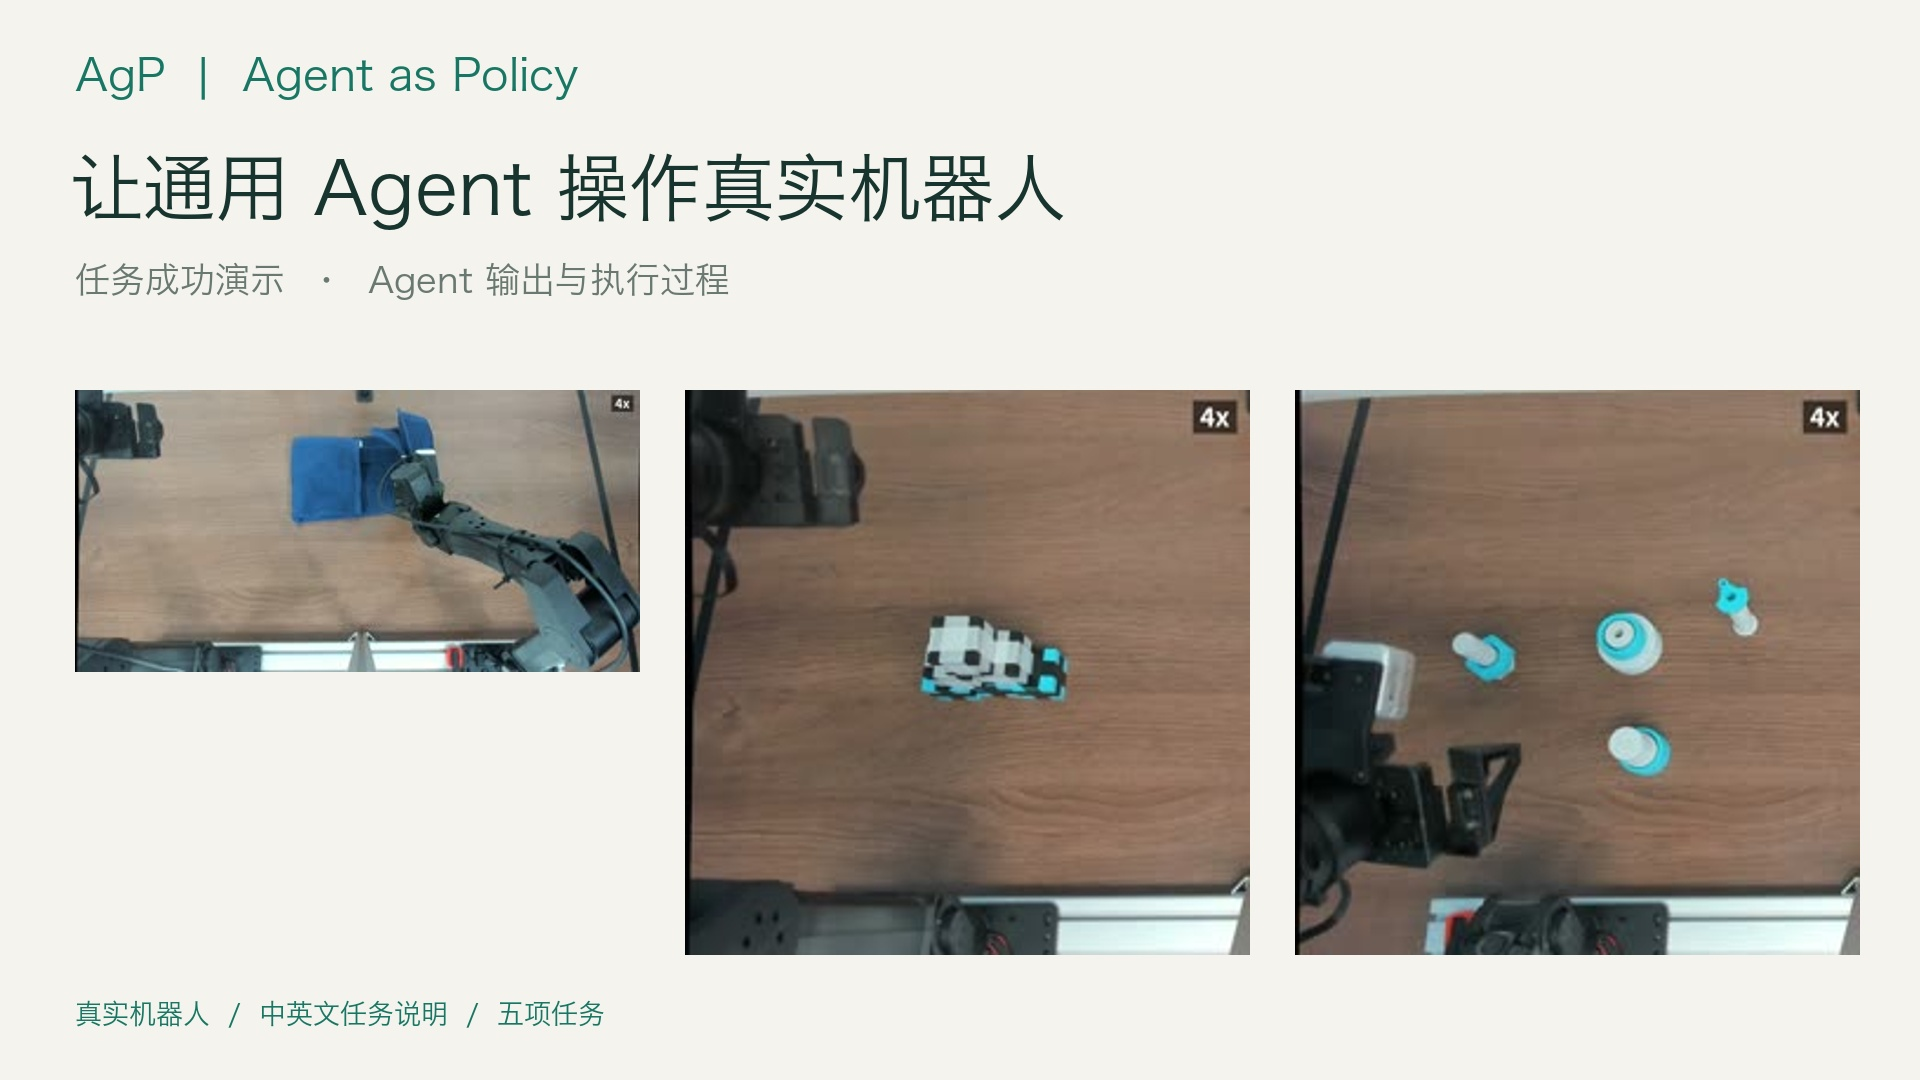
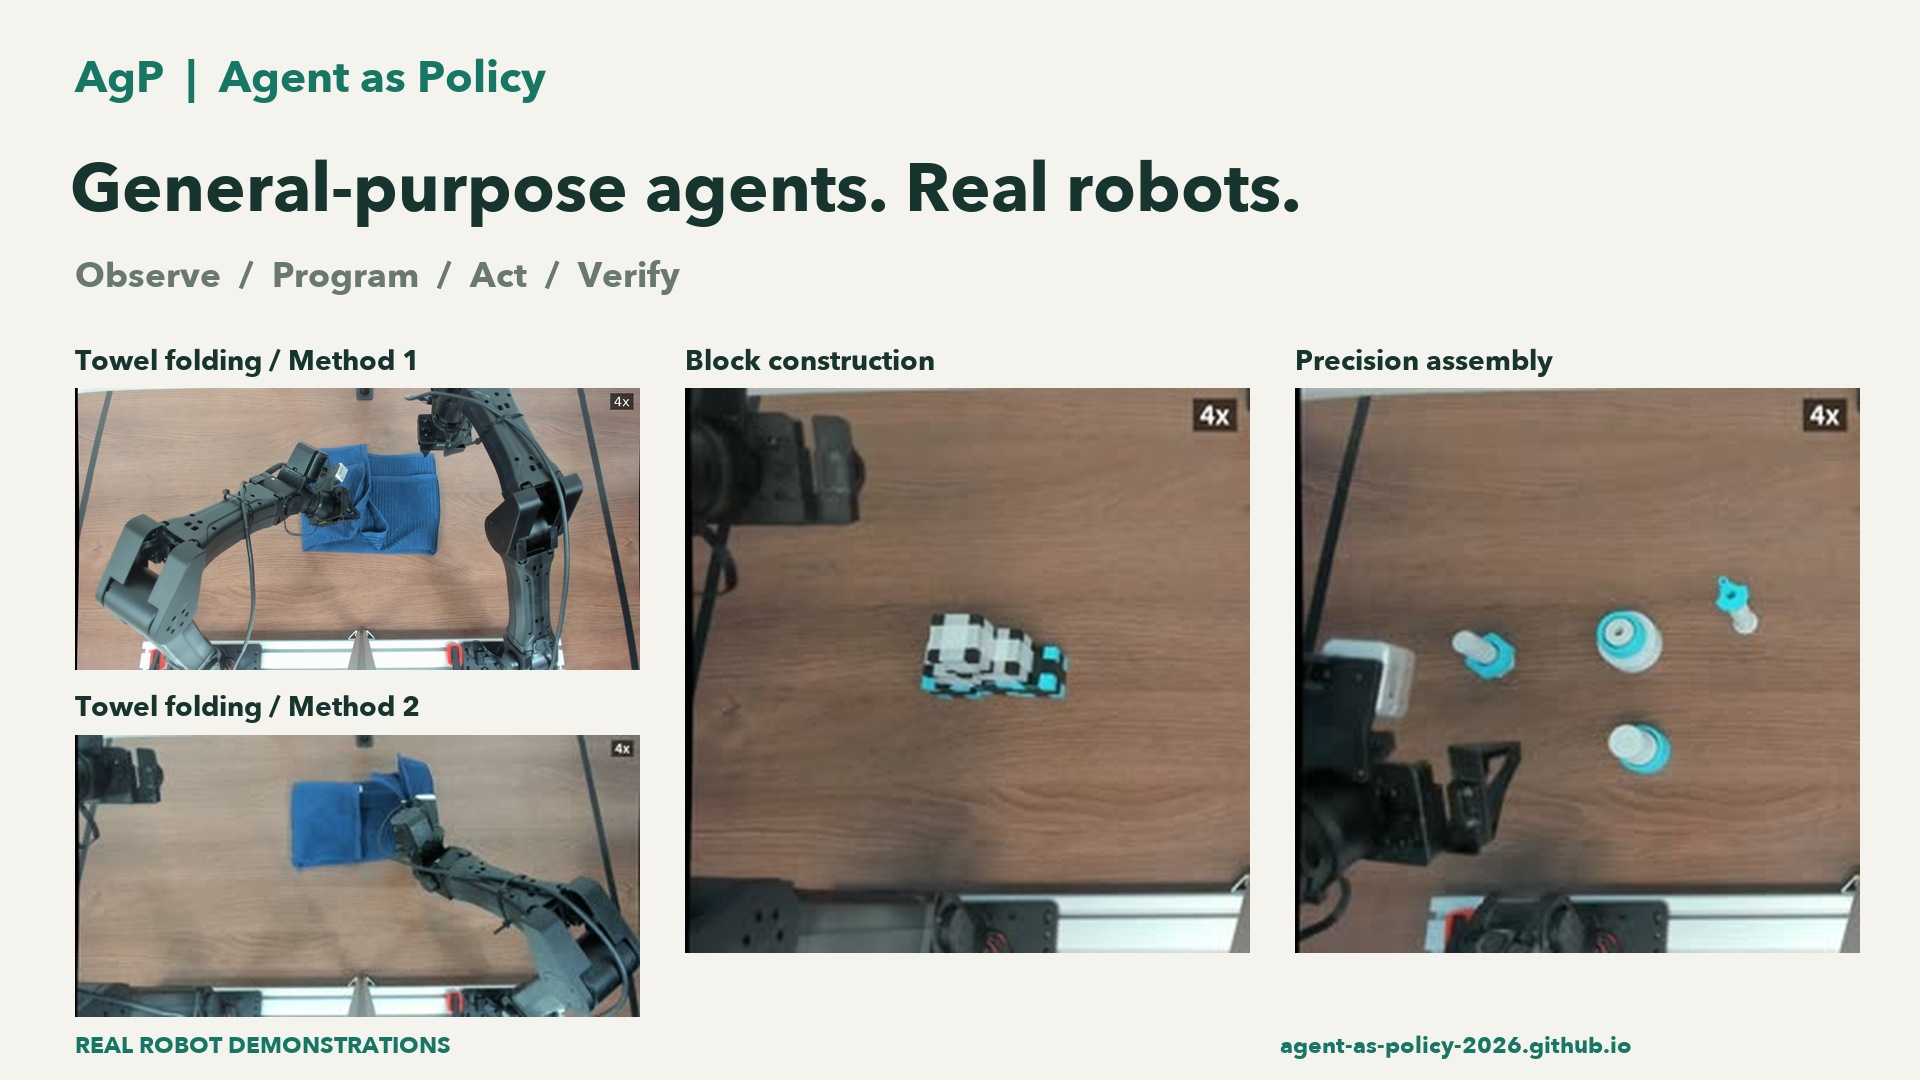
Use English demo media and show both towel-folding methods

diff --git a/docs/assets/README.md b/docs/assets/README.md
@@ -1,19 +1,19 @@
 # README media
 
-Presentation assets for the Agent as Policy repository. The original materials are from the project's promotional film and the September 14, 2026 paper source.
+Presentation assets for the Agent as Policy repository, drawn from the project recordings and the September 14, 2026 paper source.
 
 | Asset | Source | Conversion |
 | --- | --- | --- |
-| [Project video](https://github.com/user-attachments/assets/37d1d44c-292a-4207-9e5f-8cf7528e7d1f) | `Promotional_Materials/Bilibili/AgP_Bilibili_Promo_v2.mp4` | Full 348.9-second film, 1280 × 720, 20 fps, H.264 CRF 29, AAC 64 kbps, MP4 fast start |
-| `project-video-cover.jpg` | `Promotional_Materials/Bilibili/cover.jpg` | Original cover |
+| [Project video](https://github.com/user-attachments/assets/1ccd77b9-64c3-4755-9408-e18a936907dc) | `Promotional_Materials/AGP-promo.mp4` | Original English film, 38.31 seconds, 960 × 720, hosted as a GitHub video attachment |
+| `project-video-cover.jpg` | Editable layout from `Promotional_Materials/Bilibili/verify_video.py` | English headings, two towel-folding methods at left, block construction and assembly at right. All panels use real recording frames. |
 | `method-overview.png` | `paper_latex/agp_arxiv_2026-09-14/imgs/method_big.pdf` | First page rendered to PNG, 2200-pixel long edge |
-| `towel-preview.gif` | `Promotional_Materials/Bilibili/work/01_towel.mp4` | Seconds 50–62 of the edited clip, 20× original speed |
-| `pyramid-preview.gif` | `Promotional_Materials/Bilibili/work/02_pyramid.mp4` | Seconds 32–44 of the edited clip, 20× original speed |
-| `assembly-preview.gif` | `Promotional_Materials/Bilibili/work/03_assembly.mp4` | Seconds 50–62 of the edited clip, 20× original speed |
-| `throw-preview.gif` | `Promotional_Materials/Bilibili/work/05_throw.mp4` | Seconds 0.4–9.4 of the edited clip, 1× original speed |
+| `towel-preview.gif` | `Videos/Edited_4x/11_fold_towel_method2_4x.mp4` | Seconds 252–264, 4× original speed |
+| `pyramid-preview.gif` | `Videos/Edited_4x/01_pyramid_4x.mp4` | Seconds 162–174, 4× original speed |
+| `assembly-preview.gif` | `Videos/Edited_4x/06_four_assemblies_4x.mp4` | Seconds 252–264, 4× original speed |
+| `throw-preview.gif` | `Videos/Full_Length/highlights/03_right_forward_throw_top.mp4` | Seconds 3–12, original speed |
 
-GIFs are 640 × 360, 8 fps, with 96-color palettes. Sampling reduces frame rate without changing playback speed. Each preview preserves the source's speed label. The video retains the original task titles, speed labels, agent-recording sequence, and audio.
+The cover uses a frame at 400 seconds from `Videos/Edited_4x/10_fold_towel_method1_4x.mp4` for Method 1. Method 2, pyramid, and assembly use the existing source stills `11_fold_towel_method2_4x_2.jpg`, `01_pyramid_4x_3.jpg`, and `06_four_assemblies_4x_3.jpg` from the promotional-materials work directory. The two towel methods are shown in separate panels.
 
-The README links to the public project site's task videos. These cover the same task categories but can be different trials, with their own playback speeds. The paper and dataset contain the experimental results and full records.
+GIFs are 640 × 360, 8 fps, with 96-color palettes. Frames are fitted without cropping and padded to a common canvas. Sampling reduces frame rate without changing playback speed. The README labels each preview's playback speed.
 
-The film is hosted as a GitHub video attachment so it can play inside the README.
+The README links to the public project site's task videos, including both towel-folding methods. These cover the same task categories but can be different trials, with their own playback speeds. The paper and dataset contain the experimental results and full records.

diff --git a/README.md b/README.md
@@ -37,18 +37,19 @@ From deformable objects to precision assembly and dynamic motion. Click a previe
 <table>
   <tr>
     <td align="center" width="50%">
-      <a href="https://agent-as-policy-2026.github.io/media/towel-simultaneous-run-8x-views.mp4"><img src="docs/assets/towel-preview.gif" alt="Two robot arms folding a blue towel, 20x excerpt" width="100%"></a><br>
-      <b>Bimanual towel folding</b><br><sub>Coordinate two arms to fold a deformable object · 20× preview</sub>
+      <a href="https://agent-as-policy-2026.github.io/media/towel-simultaneous-run-8x-views.mp4"><img src="docs/assets/towel-preview.gif" alt="Two robot arms folding a blue towel, 4x excerpt" width="100%"></a><br>
+      <b>Bimanual towel folding</b><br><sub>Coordinate two arms to fold a deformable object · 4× preview</sub><br>
+      <sub><a href="https://agent-as-policy-2026.github.io/media/towel-sequential-run-8x-views.mp4">Method 1</a> · <a href="https://agent-as-policy-2026.github.io/media/towel-simultaneous-run-8x-views.mp4">Method 2</a></sub>
     </td>
     <td align="center" width="50%">
-      <a href="https://agent-as-policy-2026.github.io/media/blocks-pyramid-8x-views.mp4"><img src="docs/assets/pyramid-preview.gif" alt="Robot building a six-block pyramid, 20x excerpt" width="100%"></a><br>
-      <b>Block construction</b><br><sub>Build a six-block pyramid from a goal image · 20× preview</sub>
+      <a href="https://agent-as-policy-2026.github.io/media/blocks-pyramid-8x-views.mp4"><img src="docs/assets/pyramid-preview.gif" alt="Robot building a six-block pyramid, 4x excerpt" width="100%"></a><br>
+      <b>Block construction</b><br><sub>Build a six-block pyramid from a goal image · 4× preview</sub>
     </td>
   </tr>
   <tr>
     <td align="center">
-      <a href="https://agent-as-policy-2026.github.io/media/assembly-trial4-timelapse-8x-views.mp4"><img src="docs/assets/assembly-preview.gif" alt="Robot assembling matching parts, 20x excerpt" width="100%"></a><br>
-      <b>Precision assembly</b><br><sub>Match and assemble four pairs of parts · 20× preview</sub>
+      <a href="https://agent-as-policy-2026.github.io/media/assembly-trial4-timelapse-8x-views.mp4"><img src="docs/assets/assembly-preview.gif" alt="Robot assembling matching parts, 4x excerpt" width="100%"></a><br>
+      <b>Precision assembly</b><br><sub>Match and assemble four pairs of parts · 4× preview</sub>
     </td>
     <td align="center">
       <a href="https://agent-as-policy-2026.github.io/media/throw-probe-then-throw-8x-views.mp4"><img src="docs/assets/throw-preview.gif" alt="Robot throwing an object toward a target bowl at original speed" width="100%"></a><br>
@@ -57,7 +58,7 @@ From deformable objects to precision assembly and dynamic motion. Click a previe
   </tr>
 </table>
 
-Previews are selected excerpts from the promotional film. Linked task recordings play at 8× and may show a different trial of the same task. The [project page](https://agent-as-policy-2026.github.io/) also includes dice reorientation, alternative towel-folding strategies, and recorded agent sessions. Videos, per-step frames, joint trajectories, and full agent traces are available in the [dataset](https://huggingface.co/datasets/Agent-as-Policy/agent-as-policy).
+Previews are selected excerpts from the task recordings. Linked task recordings play at 8× and may show a different trial of the same task. The [project page](https://agent-as-policy-2026.github.io/) also includes dice reorientation, alternative towel-folding strategies, and recorded agent sessions. Videos, per-step frames, joint trajectories, and full agent traces are available in the [dataset](https://huggingface.co/datasets/Agent-as-Policy/agent-as-policy).
 
 ## How it works
 
